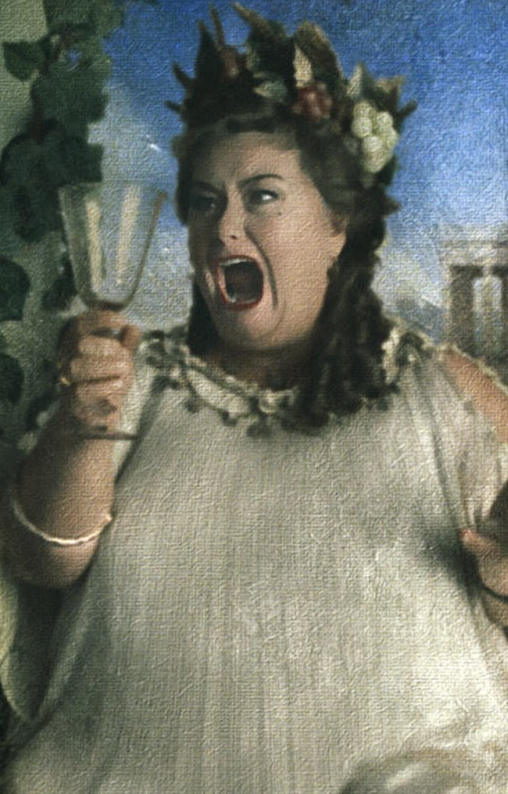
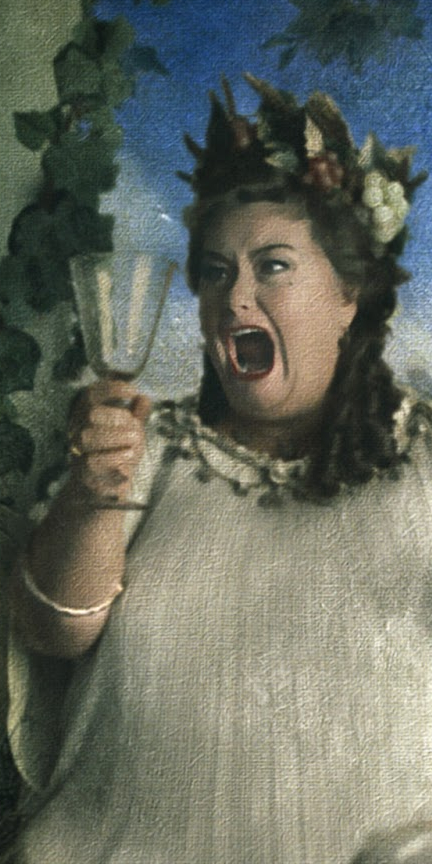
alguns erros de dimensão do wallpaper arrumados

diff --git a/casamento/js/password.js b/casamento/js/password.js
@@ -1,11 +1,16 @@
 $(document).ready(function(){
 
   $('.adviseLock').hide();
+  //
+  // height:auto;
+  //     background-image:url(sidebar-superior.png);
+  //     background-repeat:no-repeat;
+  //     background-size:100% 100%;
 
   if($(window).width() <= 520){
-    $('body').css({'backgroundImage': "url('images/lock.jpg')"});
+    $('body').css({'backgroundImage': "url('images/lock.jpg')",'backgroundRepeat':'no-repeat','backgroundSize':'100%'});
   }else{
-    $('body').css({'backgroundImage': "url('images/lock-full.jpg')"});
+    $('body').css({'backgroundImage': "url('images/lock-full.jpg')",'backgroundRepeat':'no-repeat','backgroundSize':'100%'});
   }
 
   function askPassword(again = false){
@@ -20,7 +25,7 @@ $(document).ready(function(){
 
     if (password == sitePassword){
       $('#locked').hide();
-      $('body').css({'backgroundImage': "url('images/dust_scratches.png')"});
+      $('body').css({'backgroundImage': "url('images/dust_scratches.png')",'backgroundRepeat':'repeat','backgroundSize':'auto'});
       $('#free').show();
     }else{
       if(password == null){
